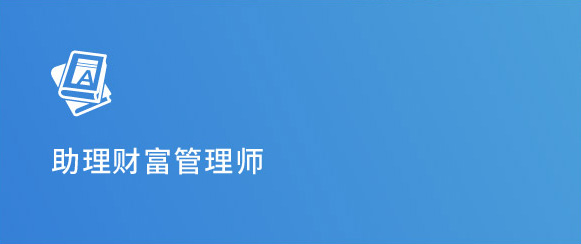
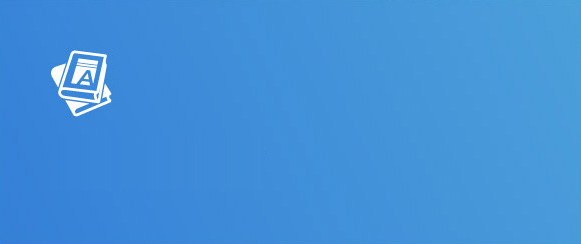
最新的

Changed region(s): [[0.0929, 0.6025, 0.4647, 0.7172]]

diff --git a/PC_en/claim.html b/PC_en/claim.html
@@ -28,11 +28,12 @@
           </ul>
         </nav>
 
-    <div class="banner banner_one " style=" background: url('images/b1.jpg') no-repeat; background-size: 100% 100%"></div>
+    <div class="banner banner_one " style=" background: url('images/b1.jpg') no-repeat center; "></div>
     <div class="container" style="position: relative;">
       <div class="tiaojian">
         <ul>
           <li>
+            <div style="padding:100px 0 0 35px; color:#fff">Assistant Wealth Manager</div>
             <div class="con" style="background:rgba(49, 119, 186, .6)">
               
 <p>1、 助理财富管理师(具备以下条件之一者)</p>
@@ -44,6 +45,8 @@
             </div>
           </li>
           <li>
+              <div style="padding:100px 0 0 35px; color:#fff">Certified Wealth Manager</div>
+
             <div class="con" style="background:rgba(41, 117, 39, .6)">
               
               <p> 2、认证财富管理师(具备以下条件之一者)</p>
@@ -56,6 +59,7 @@
 
           </li>
           <li>
+              <div style="padding:100px 0 0 35px; color:#fff">Family Wealth Legacy Planning Advisor </div>
 
             <div class="con" style="background:rgba(153, 120, 23, .6)">
               

diff --git a/PC_en/css/css.css b/PC_en/css/css.css
@@ -128,7 +128,7 @@ footer{height: 200px;}
 
 .about{ width: 100%; background: #fff;  padding: 40px;}
 .about .tt{ font-size: 36px; text-align: center; color: #333}
-.about p { line-height: 40px; font-size: 22px; margin-bottom: 40px; color: #666}
+.about p { line-height: 40px;  margin-bottom: 40px; color: #666}
 .about li{ float: left; width: 400px;}
 .tixi_con{background: #fff; padding: 40px; }
 .tixi_con .tt{ font-size: 36px; margin-top: 80px;}
@@ -153,6 +153,7 @@ footer{height: 200px;}
 .right_box{   margin-left: 250px; }
 .left_box ul { padding-top: 40px;}
 .left_box ul li a{ padding: 20px; display: block; font-size: 18px}
+.left_box ul li a p{ font-size: 14px}
 .left_box ul li a.active{ background: #e0c246; color: #fff}
 .left_box ul li a.active p{ color: #fff}
 .left_box ul li a:hover{ background: #e0c246; color: #fff}
